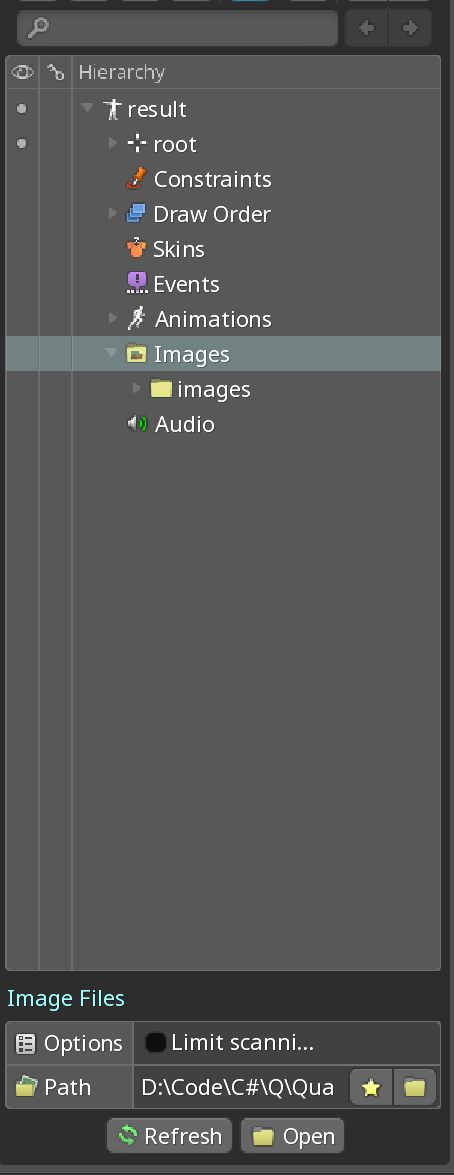
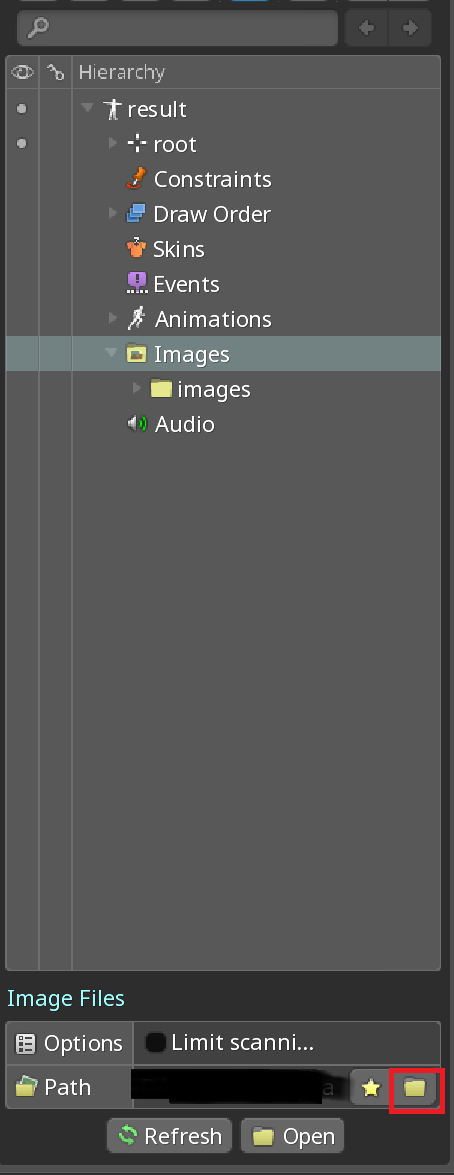
Updata md

Changed region(s): [[0.2775, 0.8885, 0.7709, 0.9498], [0.8326, 0.8885, 0.9868, 0.9498]]

diff --git a/README.md b/README.md
@@ -9,7 +9,7 @@
 * [.NET8](https://dotnet.microsoft.com/zh-cn/download)
 
 ### **Setup**
-* [how to get quad files](https://github.com/rufaswan/Web2D_Games/blob/master/docs/psxtools-steps.adoc)
+* [How to get quad files](https://github.com/rufaswan/Web2D_Games/blob/master/docs/psxtools-steps.adoc)
 
 ## **First**
 + ### Input quad file path and images path.
@@ -17,8 +17,8 @@
 + ### You will get **result.json** and **images** folder.
 # **Second**
 1. ### Open Spine and import result. (Ignore warring)
-+  <img height="150" src="MD/1.png" width="300"/>
++  <img height="300" src="MD/2.png" width="200"/>
 2. ### Import images
-+ <img height="150" src="MD/1.png" width="300"/>
++ <img height="300" src="MD/3.png" width="200"/>
 3. ### Check animations
-+ <img height="150" src="MD/1.png" width="300"/>
++ <img height="150" src="MD/4.png" width="300"/>
